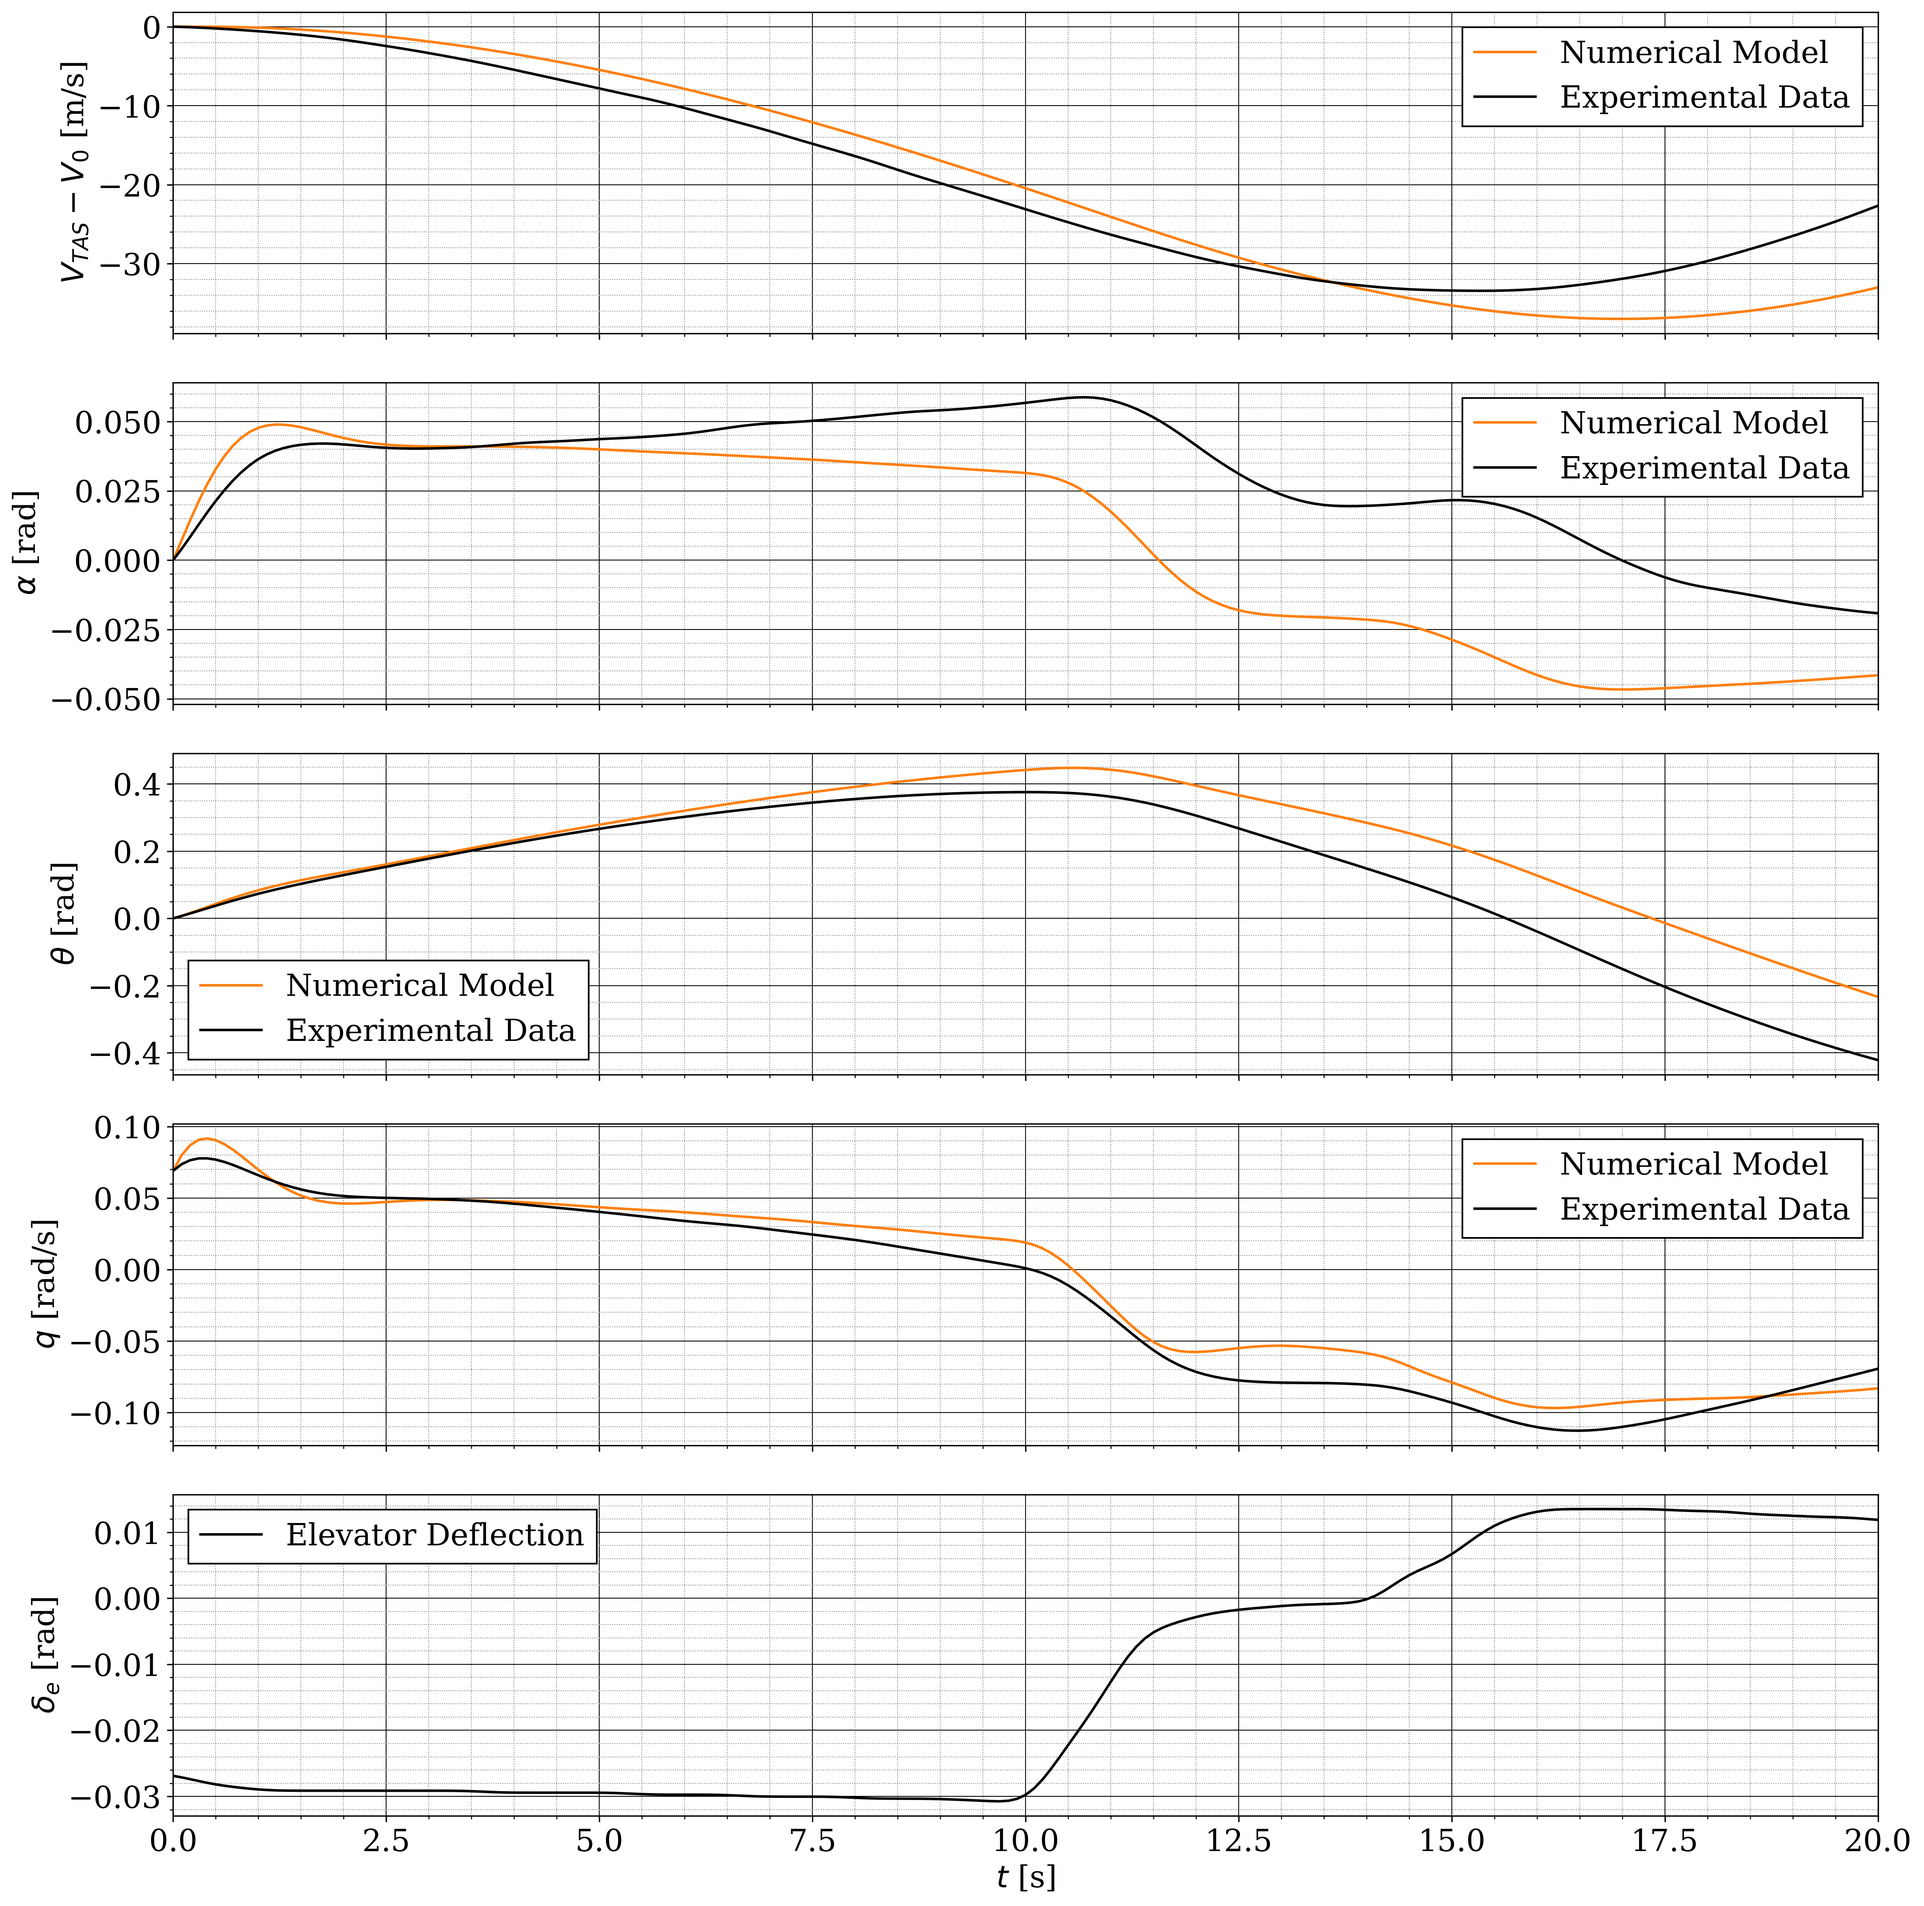
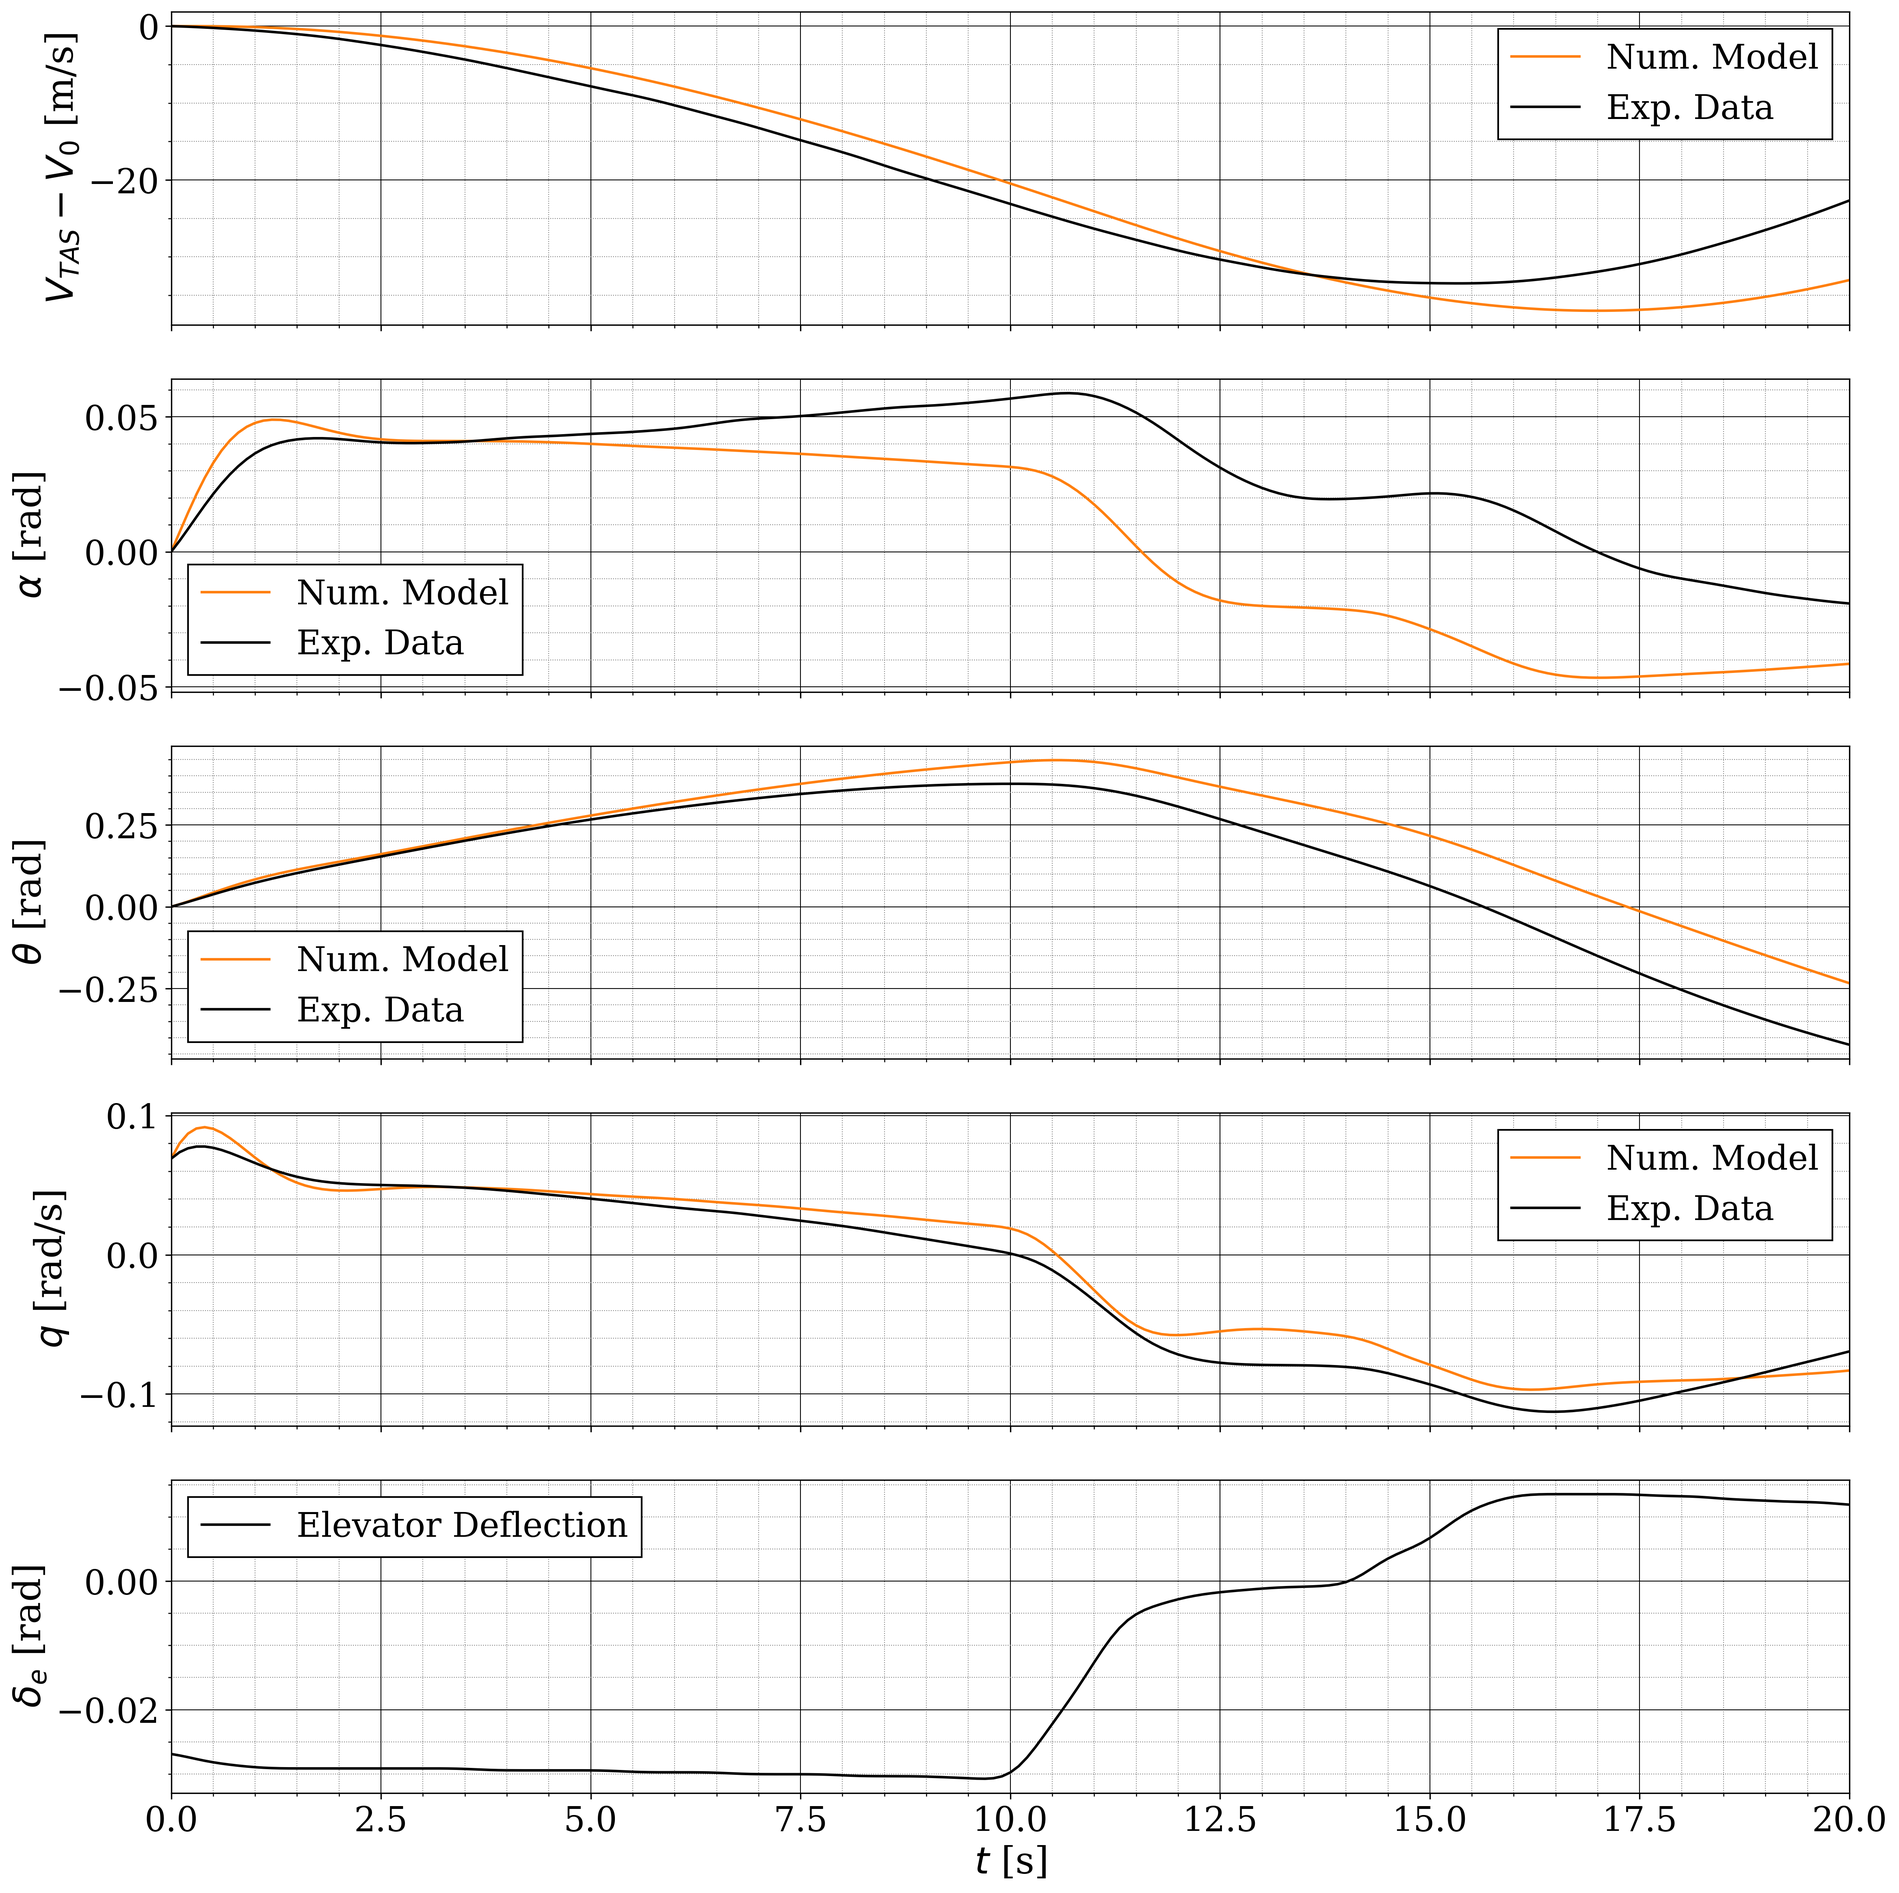
plots, font increased

diff --git a/main.py b/main.py
@@ -270,7 +270,7 @@ def lbstokg(mass):
 # ==============================================================================================
 # Import flight test or reference data from matlab file
 # ==============================================================================================
-dataset = 0                                                             # set 0 for flight test data
+dataset = 1                                                             # set 0 for flight test data
                                                                         # set 1 for reference data
 if dataset == 0:
     rawdata = importdata('flightdata.mat')                              # import flight test data from matlab file
@@ -337,11 +337,11 @@ df1    = pd.DataFrame(temp, columns=['time', 'mass'])                   # [s, kg
 # ==============================================================================================
 # Set global plotting parameters
 # ==============================================================================================
-texpsize= [18,20,22]
+texpsize= [20,22,24]
 
 plt.rc('font', size=texpsize[1], family='serif')                        # controls default text sizes
-plt.rc('axes', titlesize=texpsize[0])                                   # fontsize of the axes title
-plt.rc('axes', labelsize=texpsize[0])                                   # fontsize of the x and y labels
+plt.rc('axes', titlesize=texpsize[1])                                   # fontsize of the axes title
+plt.rc('axes', labelsize=texpsize[1])                                   # fontsize of the x and y labels
 plt.rc('xtick', labelsize=texpsize[0])                                  # fontsize of the tick labels
 plt.rc('ytick', labelsize=texpsize[0])                                  # fontsize of the tick labels
 plt.rc('legend', fontsize=texpsize[0])                                  # legend fontsize
@@ -659,8 +659,8 @@ for motion in ['phugoid', 'shortperiod', 'aperiodicroll', 'dutchroll', 'dutchrol
         # ==============================================================================================
         fig1, ax1 = plt.subplots(5,1, squeeze=False, figsize=(16,16))                                       # initialise figure with 4 rows and 1 column
         for i in range(0,4):
-            ax1[i,0].plot(t, eigenmotion.iloc[:,i], 'C1', label='Numerical Model')                          # plot each variable from output vector
-            ax1[i,0].plot(t, flightdata.iloc[:,i+1], c='k', label='Experimental Data')                      # plot each variable from test flight data
+            ax1[i,0].plot(t, eigenmotion.iloc[:,i], 'C1', label='Num. Model')                               # plot each variable from output vector
+            ax1[i,0].plot(t, flightdata.iloc[:,i+1], c='k', label='Exp. Data')                              # plot each variable from test flight data
             ax1[i,0].set_xticklabels([])                                                                    # remove values on x-axis
             ax1[i,0].set_xlim(0, tstep)                                                                     # set xmin at 0 and tstop
             ax1[i,0].set_ylabel('${}$ {}'.format(eigenmotion.columns[i], units[i]))                         # set label of y-axis
@@ -849,8 +849,8 @@ for motion in ['phugoid', 'shortperiod', 'aperiodicroll', 'dutchroll', 'dutchrol
         # ==============================================================================================
         fig1, ax1 = plt.subplots(4,1, squeeze=False, figsize=(16,16))                                       # initialise figure with 4 rows and 1 column
         for i in range(0,3):
-            ax1[i,0].plot(t, eigenmotion.iloc[:,i+1], 'C1', label='Numerical Model')                        # plot each variable from output vector
-            ax1[i,0].plot(t, flightdata.iloc[:,i+1], c='k', label='Experimental Data')                      # plot each variable from test flight data
+            ax1[i,0].plot(t, eigenmotion.iloc[:,i+1], 'C1', label='Num. Model')                             # plot each variable from output vector
+            ax1[i,0].plot(t, flightdata.iloc[:,i+1], c='k', label='Exp. Data')                              # plot each variable from test flight data
             ax1[i,0].set_xticklabels([])                                                                    # remove values on x-axis
             ax1[i,0].set_xlim(0, tstep)                                                                     # set xmin at 0
             ax1[i,0].set_ylabel('${}$ {}'.format(eigenmotion.columns[i+1], units[i+1]))                     # set label of y-axis
